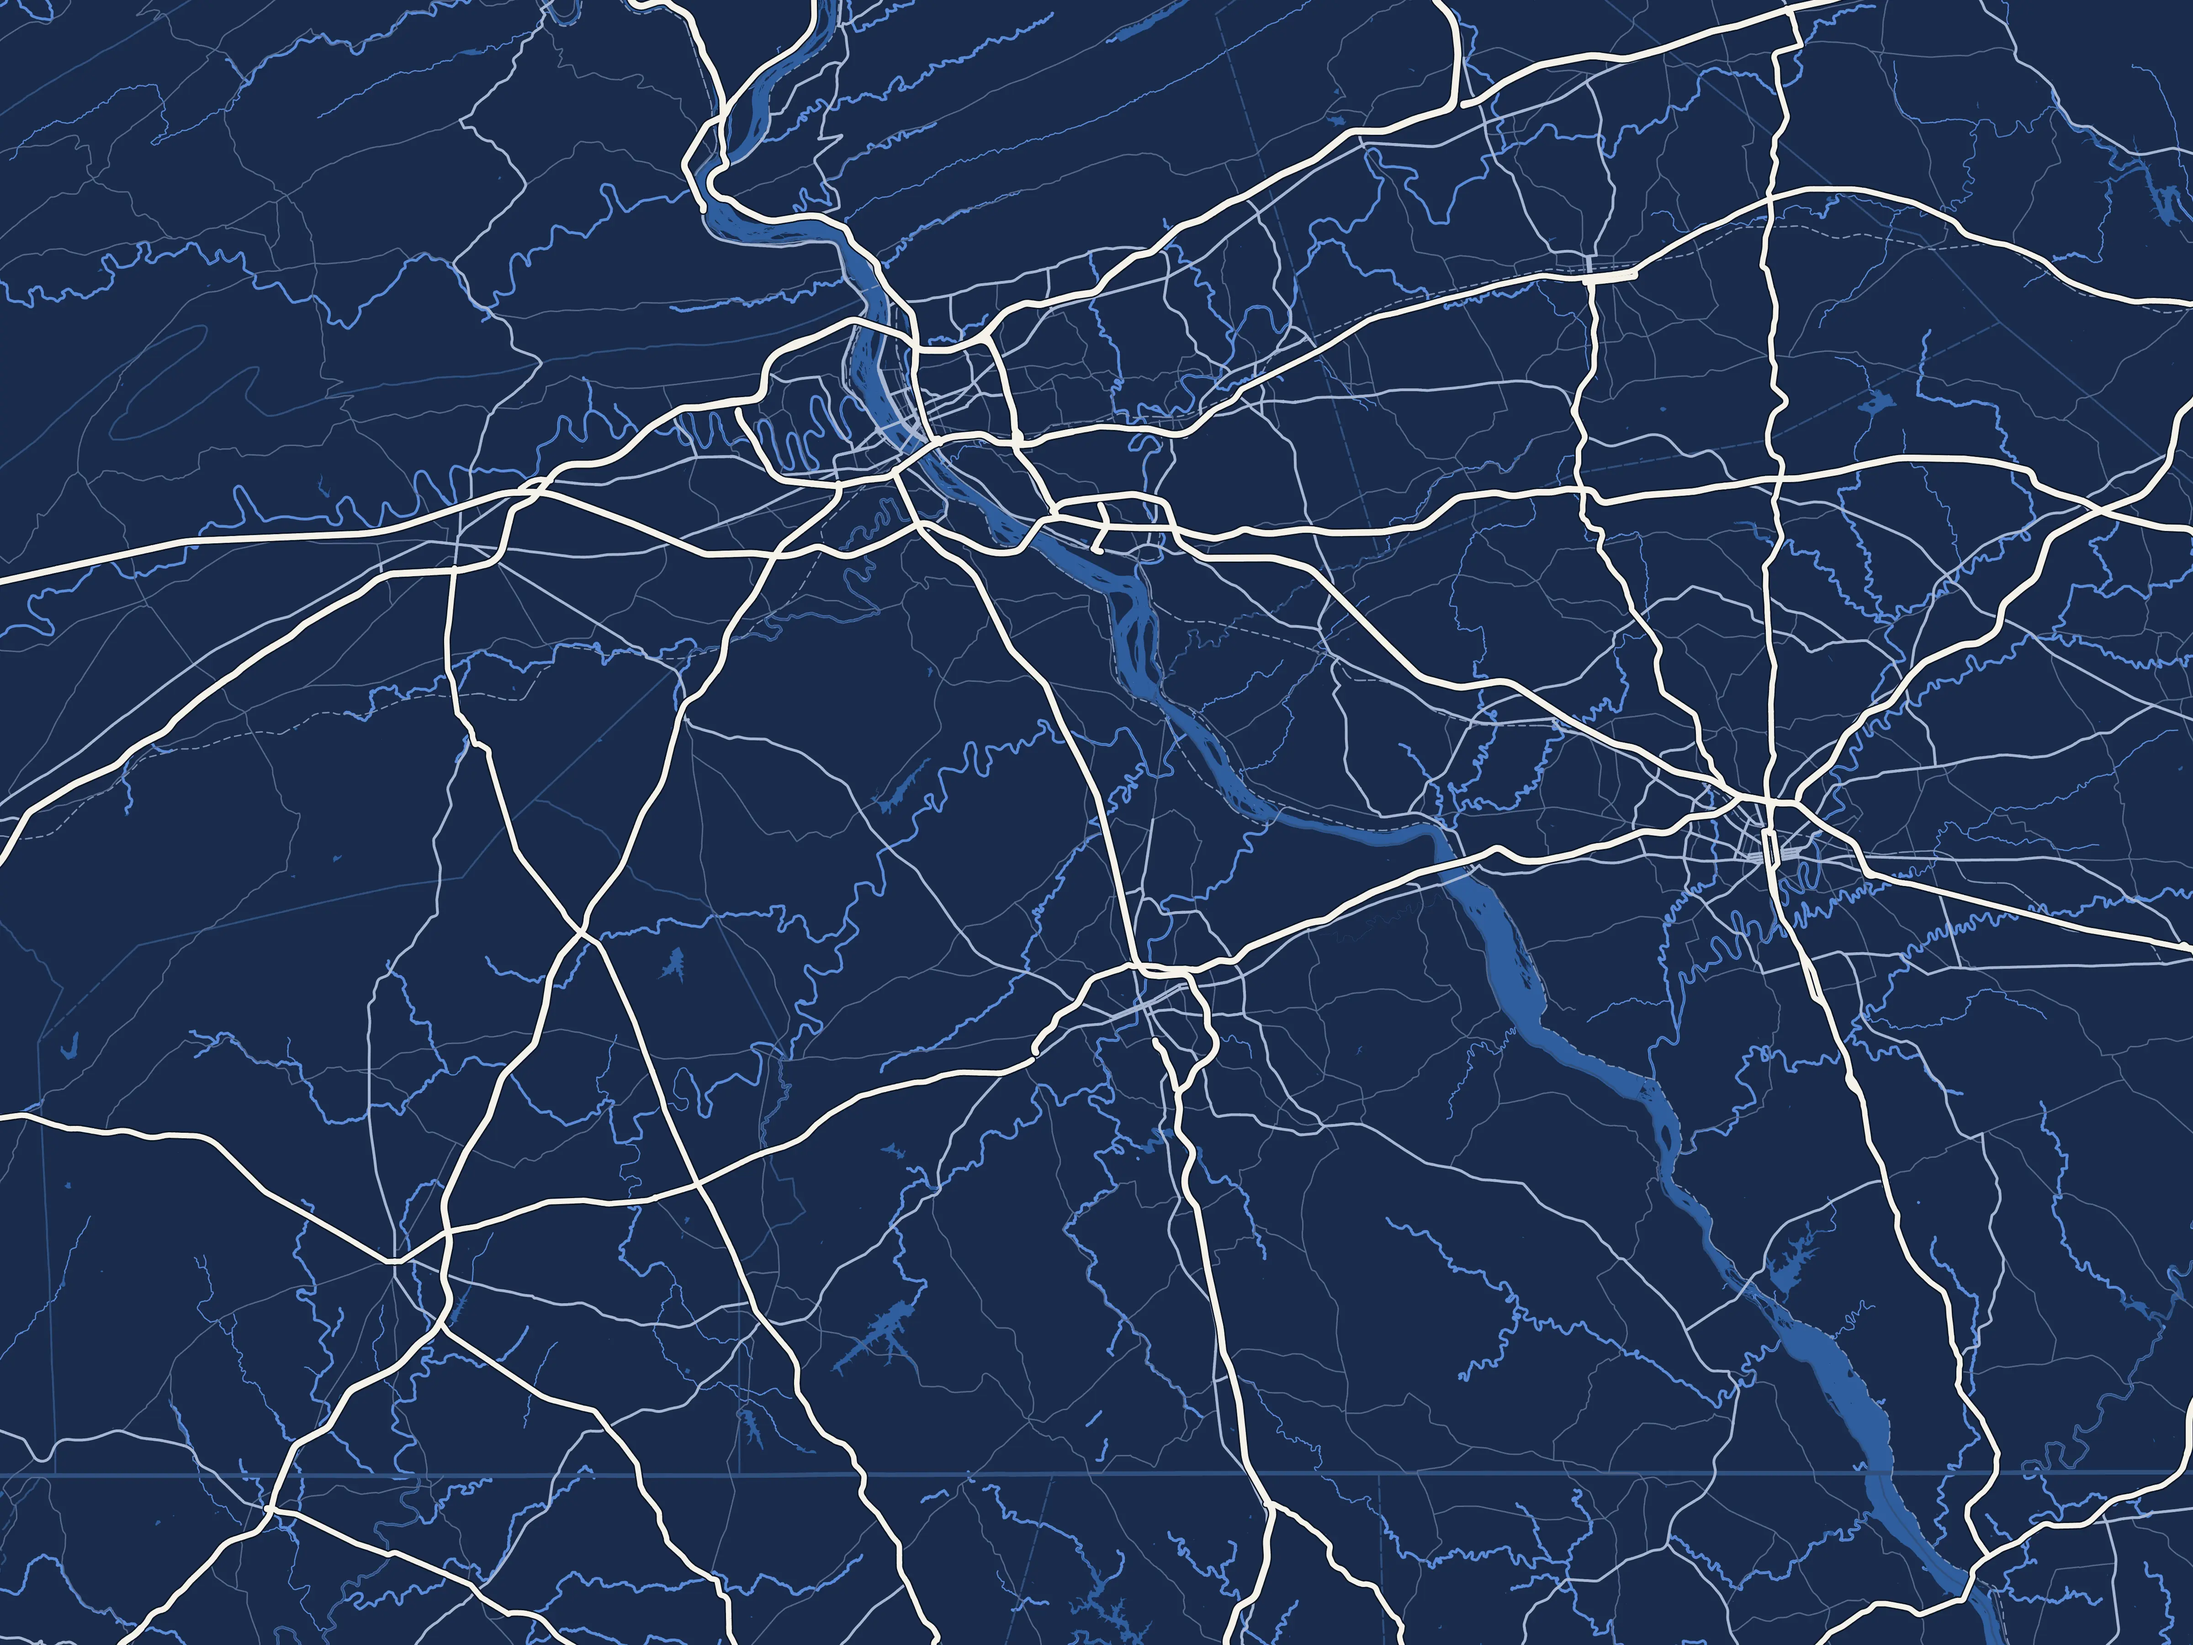
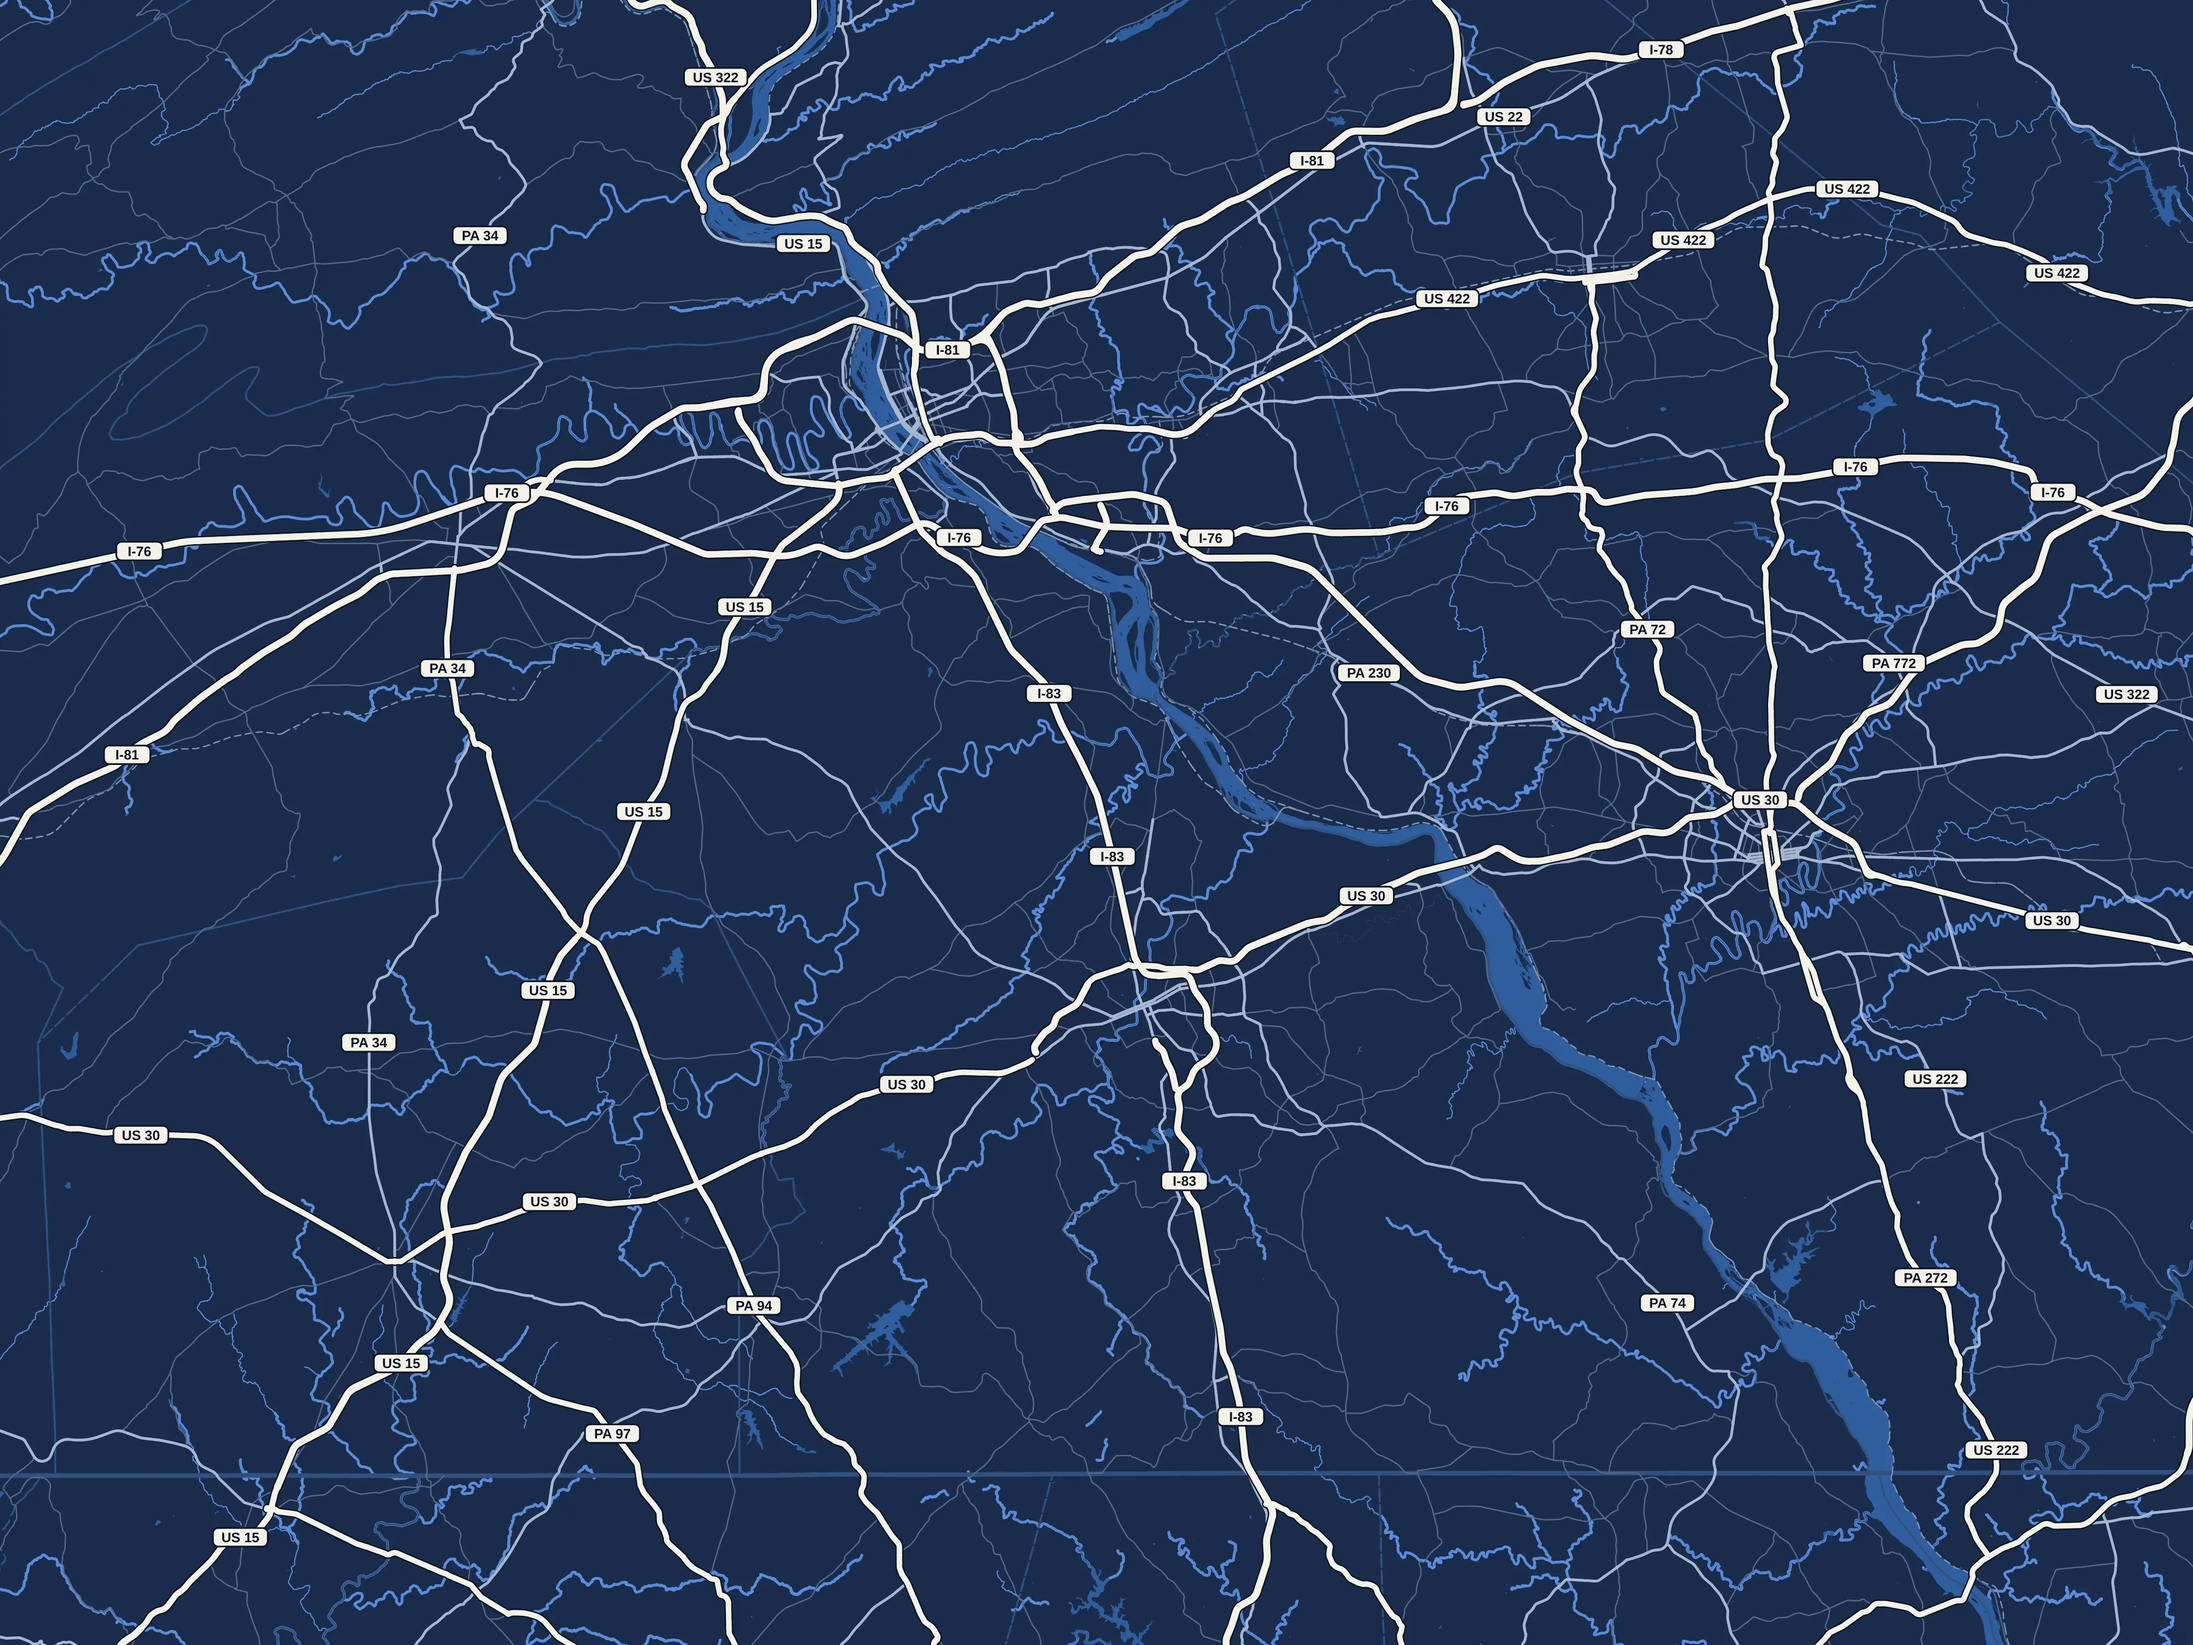
Central PA map: route-number badges; the labeling rule
Randy (Nov 29 2026): go live as shown, and "always approach it like
this": towns get street names, regions get route numbers. Central PA now
has 46 route badges (I-83, US 30, PA 34...), drawn in the same frame with
the roads checked identical to the live map, so every pin stays put.
CLAUDE.md records the rule and closes the pinned road-numbers item.

Tested: the Pin Drop smoke test passes (world, Central PA, Hanover, teams).

Claude-Session: https://claude.ai/code/session_014EbjEU8wfqZ7Q6ej2GmHgL

diff --git a/CLAUDE.md b/CLAUDE.md
@@ -1010,6 +1010,16 @@ Mode keys are used in room votes and in `gameEngine.js`:
     Hanover has 15 names. **They're readable on phones once zoomed a little,
     not on the TV** (about 7 px tall on a 1080p TV's map box); bigger names
     on fewer roads for the TV is an open option for Randy.
+    **The labeling rule (Randy, Nov 29 2026: "always approach it like
+    this"): towns get street names, regions get route numbers.** On a
+    region map the names change every few miles and many name a town
+    (Carlisle Pike, Chambersburg Road), giving town rounds away; numbers
+    stay put. Never town or place names on any map. **Central PA** got
+    route numbers that day (`LABELS=refs`: 46 cream badges, I-83, US 30,
+    PA 34..., about every 15 miles, interstates first, never crowding;
+    same frame, roads checked identical, pins unchanged), which closes the
+    pinned "road numbers" item. The same TV limit applies: readable on a
+    zoomed phone, not on the TV.
     **Hometown heroes** (Nov 28 2026): on a local map, when everyone who
     pinned (2+) lands inside the circle, "This crowd CRUSHED it!" drops
     onto the TV's map with a shake, in the half away from the answer, and
@@ -1283,9 +1293,7 @@ and forth until we both agree the idea is good **and** worth the effort. So:
   distance hint ("about 1,800 miles off", one hint per round, line or
   distance); Randy has an idea or two of his own. Come back to it.
 - **Pop Quiz at 250 is live** (Randy ran `content/sql/pop_quiz.sql`, Nov 28).
-- **Pinned (Randy, Nov 28):** road numbers on the local maps (OSM `ref`
-  tags make shields automatic; town names would give rounds away) until
-  feedback from different groups; phone full screen (iPhones can't; Android
+- **Pinned (Randy, Nov 28):** phone full screen (iPhones can't; Android
   could on Join) while Randy watches how it behaves; a curated "pub night
   stream" (talked through Nov 28, not decided).
 - **Hanover's first family game (Nov 28): "WOW! The family loved it."**
